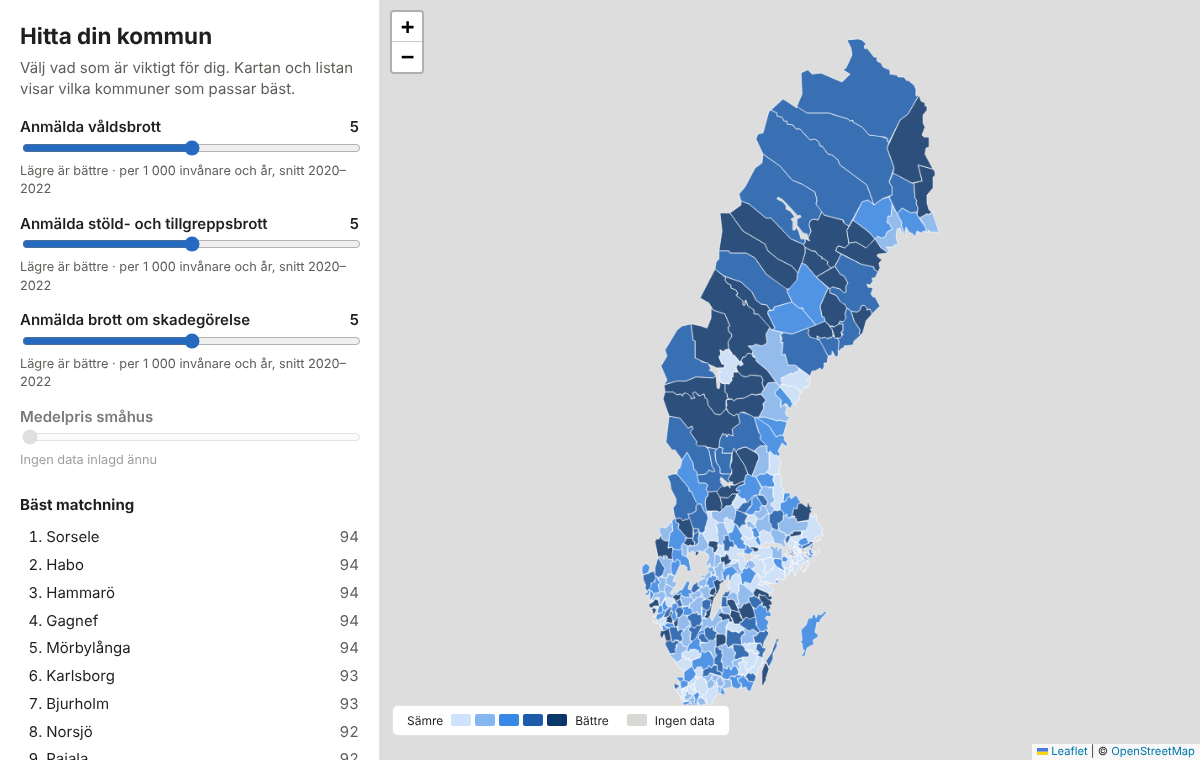
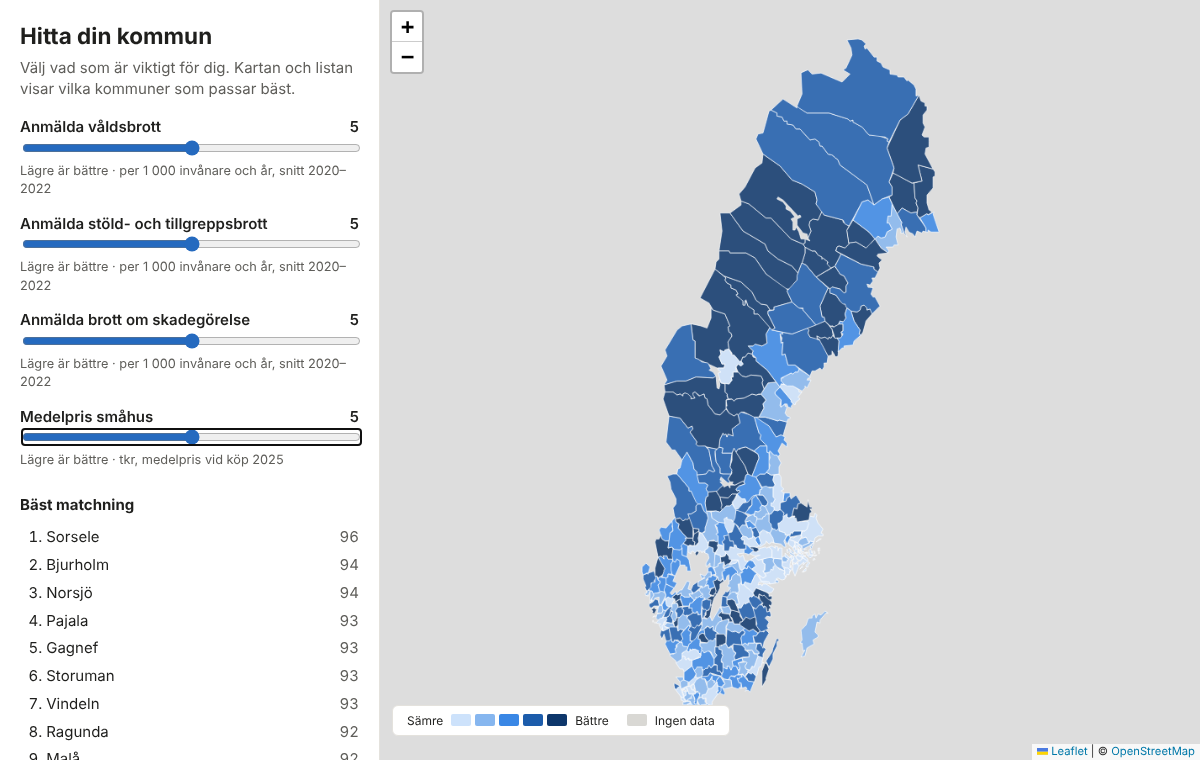
feat(data): add SCB average house prices 2025 for all 290 kommuner
Medelpris för småhus för permanent boende, SCB Fastighetspriser och
lagfarter 2025. Checked against SCB's national row: purchases sum to
57 184 and the purchase-weighted mean is 3 913 tkr. The page now notes
that prices in small kommuner rest on few sales.

Claude-Session: https://claude.ai/code/session_01N2CHQ9GhYSE8Ci71gLgUVM

diff --git a/finder/templates/finder/index.html b/finder/templates/finder/index.html
@@ -56,6 +56,7 @@
           <li>Kommungränser: &lt;KÄLLA SAKNAS – fyll i före publicering&gt;</li>
         </ul>
         <p>Anmälda brott visar inte all brottslighet och påverkas av t.ex. turism och pendling.</p>
+        <p>Medelpriset bygger på få försäljningar i små kommuner (färre än 20 köp i några av dem) och kan svänga mycket mellan åren.</p>
       </footer>
     </aside>
 

diff --git a/README.md b/README.md
@@ -16,7 +16,7 @@ score.
 | Reported violent crime | per 1,000 inhabitants per year, average 2020–2022 | MSB, *Öppna jämförelser: trygghet och säkerhet 2023* (Brå crime statistics) | loaded |
 | Reported theft | same | same | loaded |
 | Reported vandalism | same | same | loaded |
-| Average house price (småhus) | tkr | SCB, *Fastighetspriser och lagfarter* | **not loaded yet**, see below |
+| Average house price (småhus) | tkr, average purchase price 2025 | SCB, *Fastighetspriser och lagfarter 2025* | loaded |
 
 Reported crime is not the same as all crime. It is also skewed by tourism,
 commuting and shopping centres in small municipalities. The app says this on
